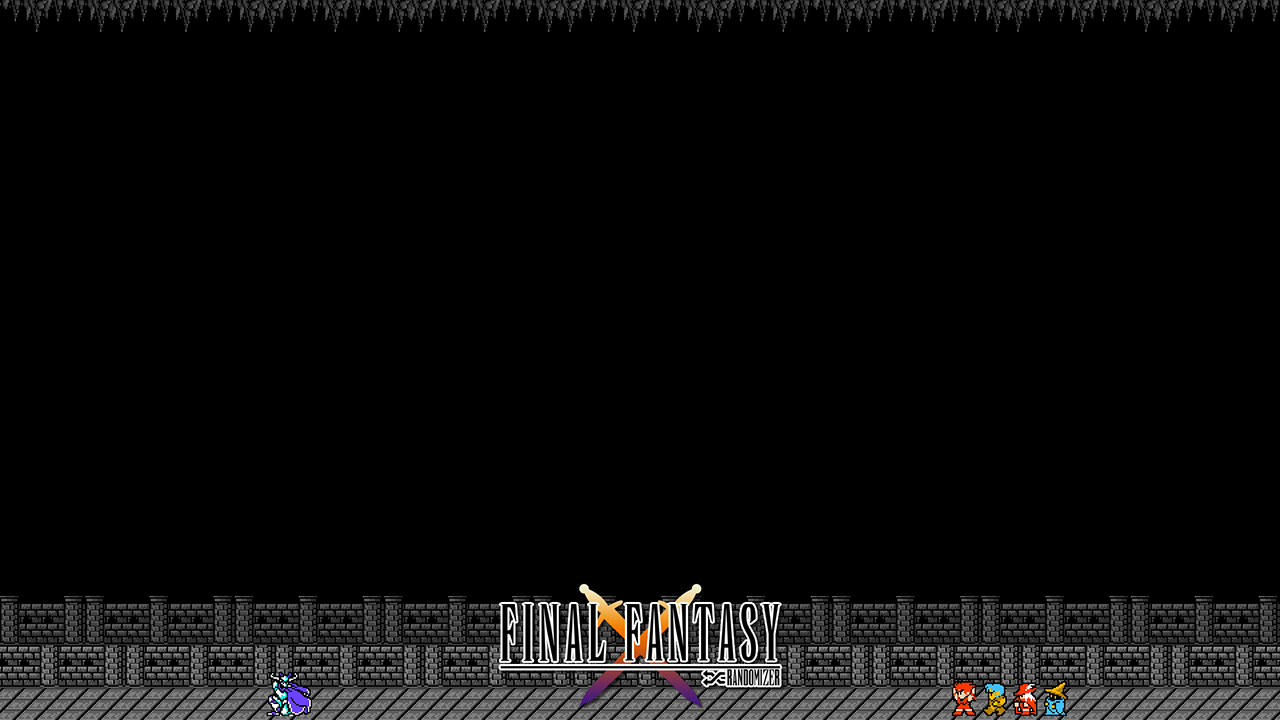
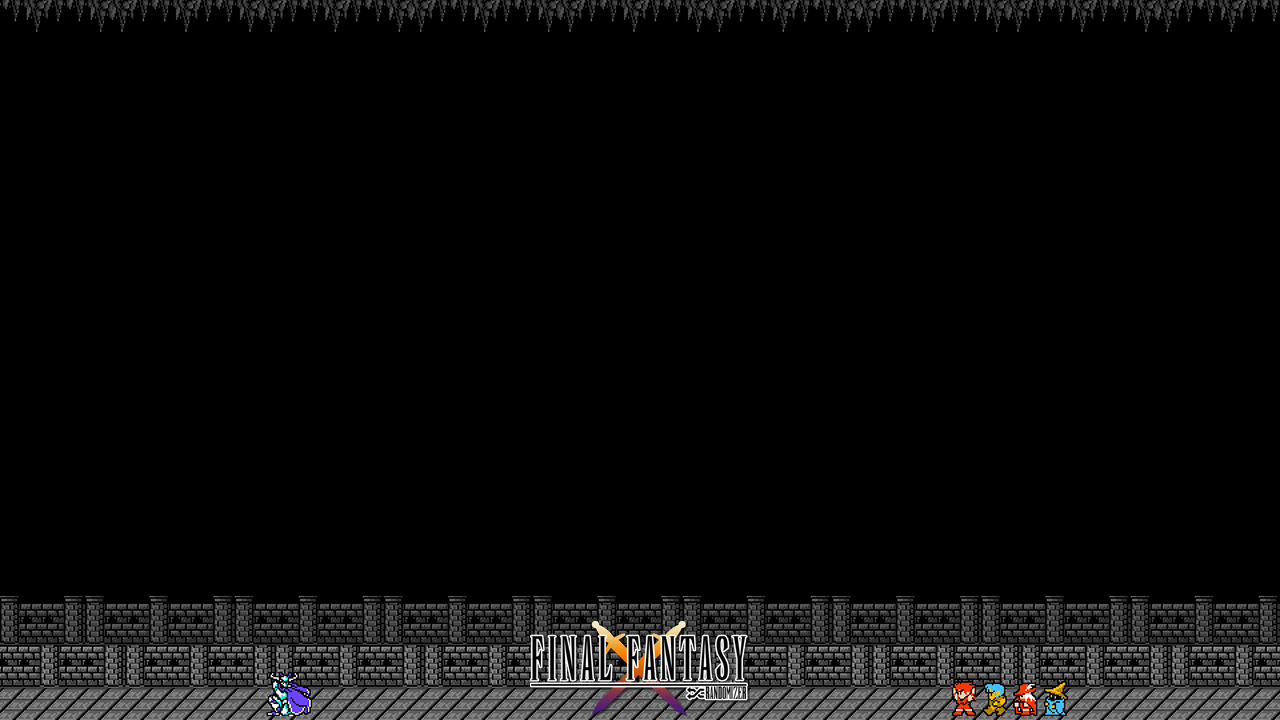
Add files via upload
Final, fixed version of the 2player layout for Final Fantasy Randomizer. Should be good to commit.

Changed region(s): [[0.375, 0.7944, 0.625, 1.0]]

diff --git a/public/ffr-2020-default-2player/two.css b/public/ffr-2020-default-2player/two.css
@@ -5,20 +5,24 @@
 }
 
 :root{
-    --backgroundImg: url('images/base-background.png'), var(--defaultfallback);
+    --backgroundImg: url('images/base-background.png');
     --border1: 1px solid #ffffff;
     --borderImg: url('images/border.png') 6 / 6px round;
     --backgroundColor1: #000;
     --vidWidth: 615px;
     --vidAspect: 4 / 3;
-    --videoX: 20px; --videoY: 62px;
-    --nameWidth: 375px;
+    --videoX: 20px; --videoY: 102px;
+    --nameWidth: 360px;
     --nameX: 20px; --nameY: 10px;
-    --gridX: 20px; --gridY: 525px;
-    --speakerX: 280px; --speakerY: 525px;
-    --winX: 325px; --winY: 525px;
+    --gridX: 20px; --gridY: 565px;
+    --pronounX: 20px; --pronounY: 63px;
+    --speakerX: 280px; --speakerY: 565px;
+    --winX: 325px; --winY: 565px;
     --finalX: 325px; --finalY: 560px;
     --bestX: 869px; --bestY: 558px;
+    --defaultfallbackColor: #005;
+    --irongolfallbackColor: #500;
+    --tourneyfallbackColor: #050;
 }
 
 .border-1{border: var(--border1);}
@@ -48,7 +52,6 @@ html{
     height: 720px;
     color: #fff;
     position: relative;
-    background-color: silver;
     background: var(--backgroundImg);
 }
 
@@ -59,22 +62,19 @@ html{
 }
 
 .ffr-default{
-    background: var(--defaultfallback);
-    background: url(images/base-background.png), var(--defaultfallback);
+    background: url(images/base-background.png) var(--defaultfallbackColor);
 }
-.layout.ffr-default .border-background-1 {background-color: #000033;}
+.layout.ffr-default .border-background-1 {background-color: var(--defaultfallbackColor);}
 
 .ffr-irongol{
-    background: var(--irongolfallback);
-    background: url(images/base-irongol.png), var(--irongolfallback);
+    background: url(images/base-irongol.png) var(--irongolfallbackColor);
 }
-.layout.ffr-irongol .border-background-1 {background-color: #330000;}
+.layout.ffr-irongol .border-background-1 {background-color: var(--irongolfallbackColor);}
 
 .ffr-tourney{
-    background: var(--tourneyfallback);
-    background: url(images/base-tourney.png), var(--tourneyfallback);
+    background: url(images/base-tourney.png) var(--tourneyfallbackColor);
 }
-.layout.ffr-tourney .border-background-1 {background-color: #003300;}
+.layout.ffr-tourney .border-background-1 {background-color: var(--tourneyfallbackColor);}
 
 .player-name{
     font-size: 26px;
@@ -96,6 +96,13 @@ html{
     grid-template-columns: repeat(12, auto);
     padding: 10px;
     grid-gap: 4px;
+}
+
+.player-pronoun{
+    padding: 10px;
+    font-size: 10px;
+	text-align: center;
+	width: 80px;
 }
 
 .player-grid img{
@@ -167,6 +174,8 @@ tr-timer{
     height: 53px;
     z-index: 1;
 	font-size: 24px;
+	top: 565px;
+	left: 505px;
 }
 tr-timer span {
     width: 26px;
@@ -183,6 +192,11 @@ tr-timer span {
 .staff{
     overflow: hidden;
     font-size: 24px;
+    width: 450px;
+	height: 88px;
+	top: 10px; 
+	left: 413px; 
+	text-align: center;
 }
 
 .staff-panel-1, .staff-panel-2{

diff --git a/public/ffr-2020-default-2player/two.html b/public/ffr-2020-default-2player/two.html
@@ -8,7 +8,7 @@
     <link rel="stylesheet" type="text/css" href="../shared/components.css">
     <link rel="stylesheet" type="text/css" href="../shared/menu.css">
     <link rel="stylesheet" type="text/css" href="two.css">
-    <link rel="preload" href="" as="image" type="image/png">
+    <link rel="preload" href="images/base-background.png" as="image" type="image/png">
     <style>
         [player="1"] .player-video {left: var(--videoX); top: var(--videoY);}
         [player="2"] .player-video {right: var(--videoX); top: var(--videoY);}
@@ -18,6 +18,9 @@
     
         [player="1"] .player-grid {left: var(--gridX); top: var(--gridY);}
         [player="2"] .player-grid {right: var(--gridX); top: var(--gridY);}
+
+        [player="1"] .player-pronoun {left: var(--pronounX); top: var(--pronounY);}
+        [player="2"] .player-pronoun {right: var(--pronounX); top: var(--pronounY);}
     
         [player="1"] .player-final {left: var(--finalX); top: var(--finalY);}
         [player="2"] .player-final {right: var(--finalX); top: var(--finalY);}
@@ -40,6 +43,7 @@
 				<tr-text scale-to-fit property="player-name"></tr-text>
 			</div>
 			<tr-template class="player-grid abs border-background-1" href="icons.html"></tr-template>
+            <tr-text property="player-pronoun" class="player-pronoun abs border-background-1"></tr-text>
 			<tr-text property="player-final" class="player-final abs"></tr-text>        
 			<tr-toggle property="toggle-speaker" class="abs player-speaker">
 				<img src="../shared/images/icons/blank.svg" alt="">
@@ -58,8 +62,8 @@
 
 <!-- timer/staff -->
 
-        <tr-timer class="abs border-background-1" property="timer-test" target="[title='Dummy Text'], input[value='screen']" toggle-class="disable" style="top: 525px; left: 515px;"></tr-timer>
-        <tr-hide-if-empty class="staff abs border-background-1" style="top: 10px; left: 413px; text-align: center;" toggle-class="wtf">
+        <tr-timer class="abs border-background-1" property="timer-test" target="[title='Dummy Text'], input[value='screen']" toggle-class="disable"></tr-timer>
+        <tr-hide-if-empty class="staff abs border-background-1" toggle-class="wtf">
             <tr-template href="../shared/production-team.html"></tr-template>
         </tr-hide-if-empty>
     </div>

diff --git a/public/ffr-2020-default-2player/two_menu.html b/public/ffr-2020-default-2player/two_menu.html
@@ -13,6 +13,29 @@
 		</div>
 	</div>
 
+   <div id="menu_backgrounds" class="fieldset">
+		<h4 class="legend">Players</h4>
+		<div id="menu_player_labels">
+			<table>
+				<tr>
+					<th></th>
+					<th>#</th>
+					<th>Pronoun</th>
+				</tr>
+				<tr>
+					<td>1</td>
+					<td><tr-input-text player="1" class="number-input" property="player-number"></tr-input-text></td>
+					<td><tr-input-text player="1" class="pronoun-input" property="player-pronoun"></tr-input-text></td>
+				</tr>
+				<tr>
+					<td>2</td>
+					<td><tr-input-text player="2" class="number-input" property="player-number"></tr-input-text></td>
+					<td><tr-input-text player="2" class="pronoun-input" property="player-pronoun"></tr-input-text></td>
+				</tr>
+			</table>
+		</div>
+	</div>
+	
    <div id="menu_players" class="fieldset">
         <h4 class="legend">Players</h4>
         <button class="dummy-text-button" title="Dummy Text" onclick="playerDummyText()"></button>
@@ -74,7 +97,8 @@
                 <label class="overlay-label-calendar" for="calendar">Calendar</label>
             </div>
         </div>
-        <div id="menu_best_of">
+ <!--
+		<div id="menu_best_of">
             <label>Best of:</label>
             <tr-input-radio checked id="best-of-no" property="best-of" value="best-of-no" target=".player-best-of, .load-best-of" toggle-class="best-of-no"></tr-input-radio>
             <label id="menu-label-best-of-no" class="video-bgcolor" for="best-of-no">1</label>
@@ -85,6 +109,7 @@
             <tr-input-radio id="best-of-7" property="best-of" value="best-of-7" target=".player-best-of, .load-best-of" toggle-class="best-of-7"></tr-input-radio>
             <label class="video-bgcolor" for="best-of-7">7</label>
         </div>
+-->
     </div>
 
     <div id="menu_production" class="fieldset">
